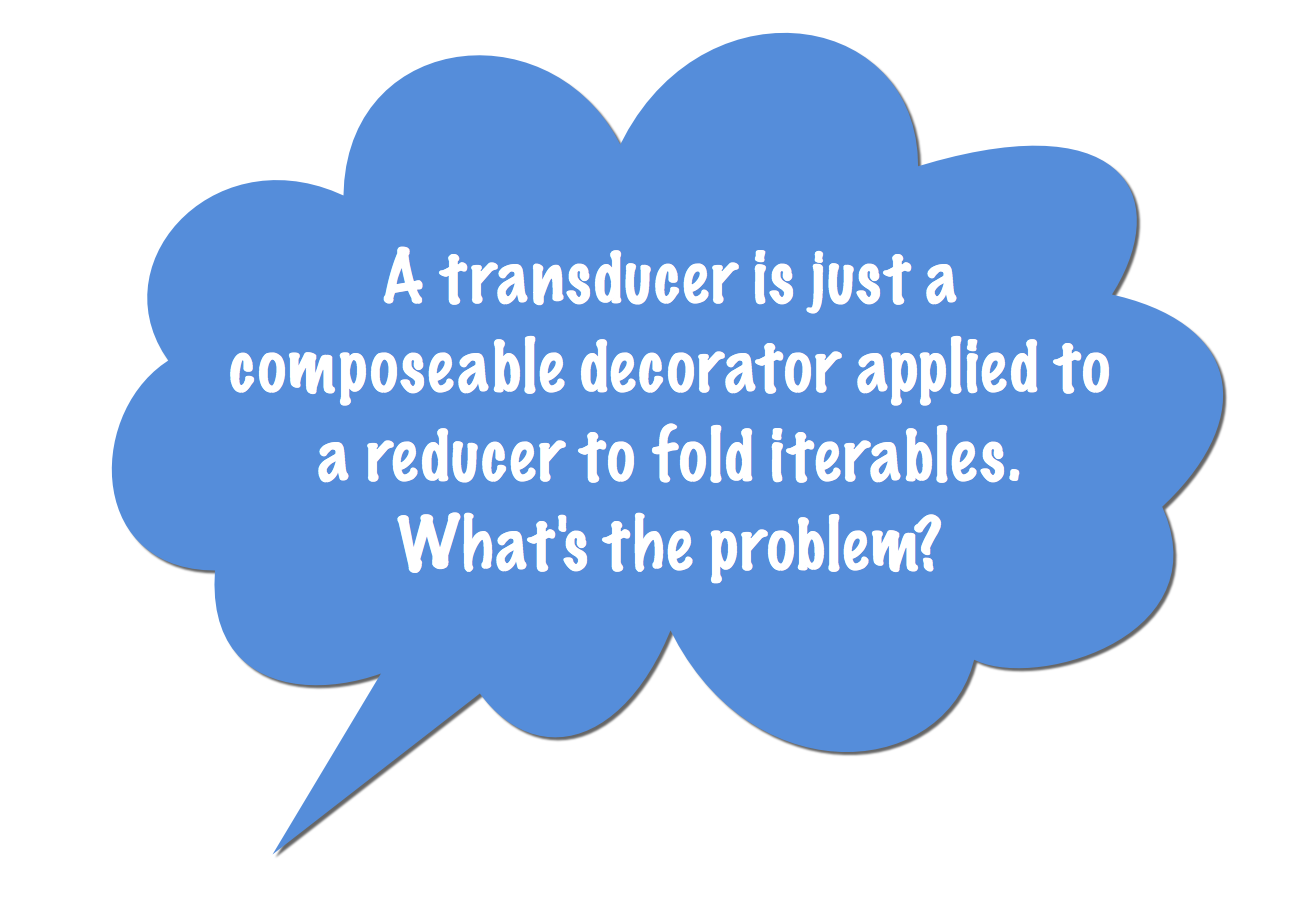
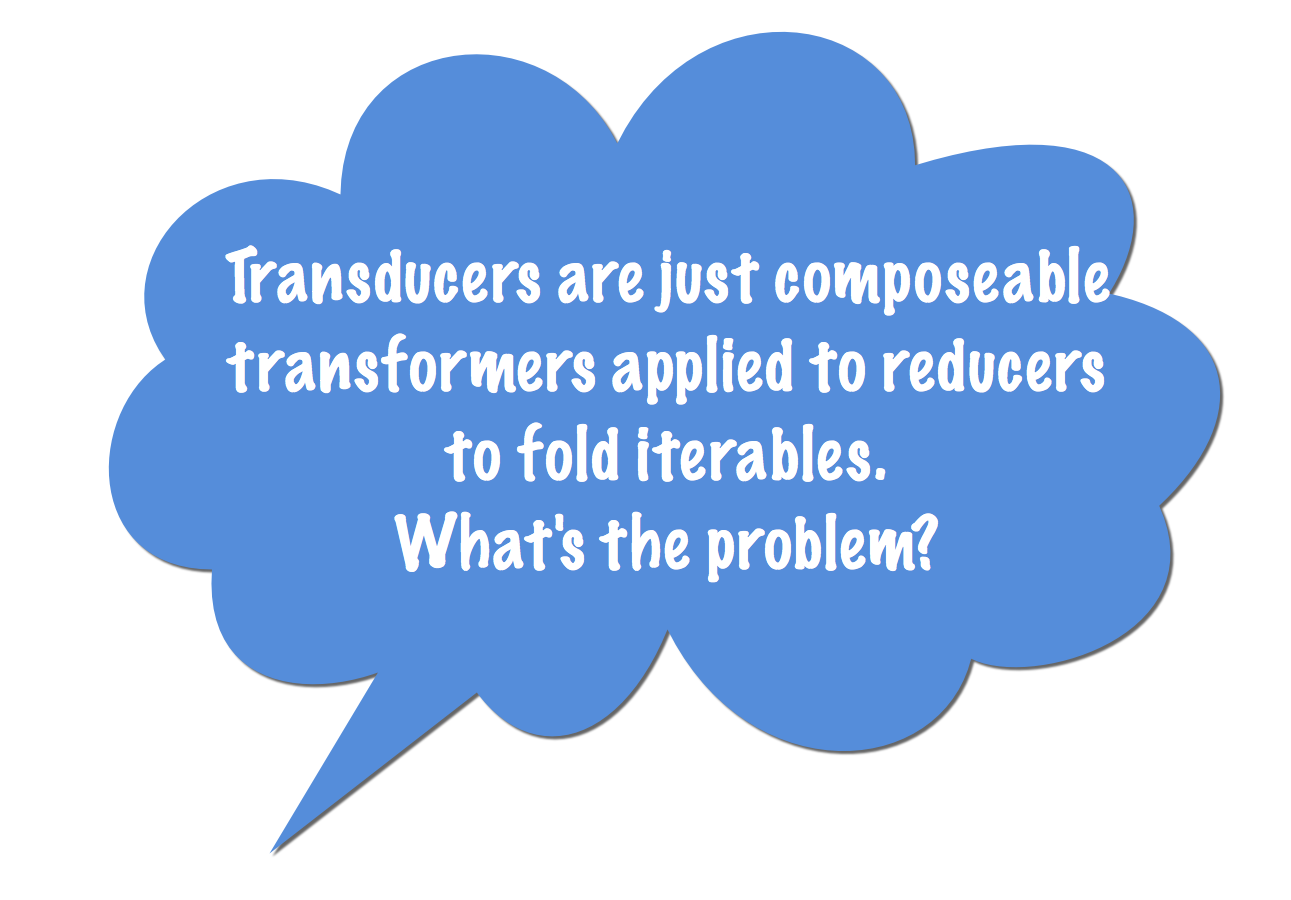
transformers

diff --git a/_posts/2017-04-30-transducers.md b/_posts/2017-04-30-transducers.md
@@ -311,17 +311,37 @@ reduce(one2ten, filter(x => x % 2 === 1)(squares(sumOf)), 0)
 
 ---
 
-### composing decorators
+### "transformers" and composition
 
-The essential character of this pattern is that we can take a reducer and compose it with as many mappers, filters, or other decorators that we cook up, and we end up with a reducer. Decorators *compose* with each other. We can even be explicit about this in a delightful way:
+Denizens of other programming communities have a word for a function that takes an argument and transforms it into something else: They call such functions "transformers." What we call decorators are a special case of transformers, and so if some talks about a "transformer" function that transforms a reducer into another reducer, we know that they are talking about the same thing as when we talk about a function that "decorates" a reducer with some additional functionality such as mapping or filtering.
+
+The mappers and filters we have discussed so far are transformers. Within the context of this programming pattern, an essential characteristic of transformers is that they *compose* to produce a new transformer. As a refresher, here's a function that composes any two functions:
 
 ```javascript
-const compositionOf = (acc, val) => (...args) => val(acc(...args));
+const plusFive = x => x + 5;
+const divideByTwo = x => x / 2;
 
-const compose = (...fns) =>
-  reduce(fns, compositionOf, x => x);
+plusFive(3)
+  //=> 8
 
-const squaresOfTheOddNumbers = compose(
+divideByTow(8)
+  //=> 4
+
+const compose2 =
+  (a, b) =>
+    (...c) =>
+      a(b(...c));
+
+const plusFiveDividedByTwo = compose2(divideByTwo, plusFive);
+
+plusFiveDividedByTwo(3)
+  //=> 4
+```
+
+What does it mean to say that transformers compose to make a new transformer? Just that if we `compose2` any two transformers, we get a new transformer that transforms a reducer. Thus:
+
+```javascript
+const squaresOfTheOddNumbers = compose2(
   filter(x => x % 2 === 1),
   squares
 );
@@ -330,9 +350,28 @@ reduce(one2ten, squaresOfTheOddNumbers(sumOf), 0)
   //=> 165
 ```
 
-Yes, this formulation of `compose` uses `reduce` and in turn is used in our `reduce`.
+`squaresOfTheOddNumbers` is a transformer we created by composing a filter with a mapper.
 
 Being able to compose decorators lets us decompose complex and highly coupled code into smaller units with a single responsibility that we can name if we choose.
+
+---
+
+### composition with transformers
+
+Now that we know how to `compose2`, what if we want to compose an arbitrary number of functions? There's a reduction for that!
+
+let's start by rewriting `compose2` as a transformer, `compositionOf`:
+
+```javascript
+const compositionOf = (acc, val) => (...args) => val(acc(...args));
+```
+
+Now we can write `compose` as a reduction of its arguments:
+
+```javascript
+const compose = (...fns) =>
+  reduce(fns, compositionOf, x => x);
+```
 
 ---
 
@@ -344,29 +383,18 @@ Given reductions written in this style:
 reduce(one2ten, squaresOfTheOddNumbers(sumOf), 0)
 ```
 
-We can note that we have four separate elements: A decorator for the reducer (which may be a composition of decorators), a seed, and an iterable. We can express the same thing like this:
+We can note that we have four separate elements: A transformer for the reducer (which may be a composition of transformers), a seed, and an iterable. We can express the same thing like this:
 
 ```javascript
-const reduce = (decorator, reducer, seed, iterable) => {
-  const decoratedReducer = decorator(reducer);
-  let accumulation = seed;
-
-
-  for (const value of iterable) {
-    accumulation = decoratedReducer(accumulation, value);
-  }
-
-  return accumulation;
-}
-
-reduce(squaresOfTheOddNumbers, sumOf, 0, one2ten)
-  //=> 165
+reduce(iterable, transformer(reducer), seed)
 ```
 
-This does not resemble the `.reduce` method, or the way `reduce` functions are usually written, so we need some new names:
+If we tease these into separate parameters and reörder them, we get:[^xf]
+
+[^xf]: In some programming communities, there is a strong sense of conservation with respect to characters, so `tarnsformer` is abbreviated to `xform` or even `xf`. Don't be surprised if you see writing like `(xf, reduce, seed, coll)`, or `xf((val, acc) => acc) -> (val, acc) => acc`.
 
 ```javascript
-const transduce = (transducer, reducer, seed, iterable) => {
+const transduce = (transformer, reducer, seed, iterable) => {
   const decoratedReducer = transducer(reducer);
   let accumulation = seed;
 
@@ -381,9 +409,9 @@ transduce(squaresOfTheOddNumbers, sumOf, 0, one2ten)
   //=> 165
 ```
 
-And there you have it: A *reducer* is the kind of function you’d pass to `.reduce`—it takes an accumulated result and a new input, and returns a new accumulated result. A *transducer* is a function that decorates a reducer.
+And there you have it: A *reducer* is the kind of function you’d pass to `.reduce`—it takes an accumulated result and a new input, and returns a new accumulated result. A *transformer* is a function that transforms a reducer into another reducer. And a *transducer* ("transformer" plus "reducer," get it?) is a function that takes a transformer, a reducer, a seed, and an iterable and reduces it to a value.
 
-The elegance of the transducer pattern is that transducers compose naturally to produce new transducers. So we can chain as many transducers together as we like to decorate one decorator, and since we end up with one decorated reducer, we only iterate over the collection once. We don't need to create intermediate copies of the data or iterate over it multiple times.
+The elegance of the transducer pattern is that transformers compose naturally to produce new transformers. So we can chain as many transformers together as we like, and since we end up with one transformed reducer, we only iterate over the collection once. We don't need to create intermediate copies of the data or iterate over it multiple times.
 
 Transducers come to us from the [Clojure] programming community, but as you can see they "cut with JavaScript's grain" and are a natural fit for what JavaScript makes easy.
 
